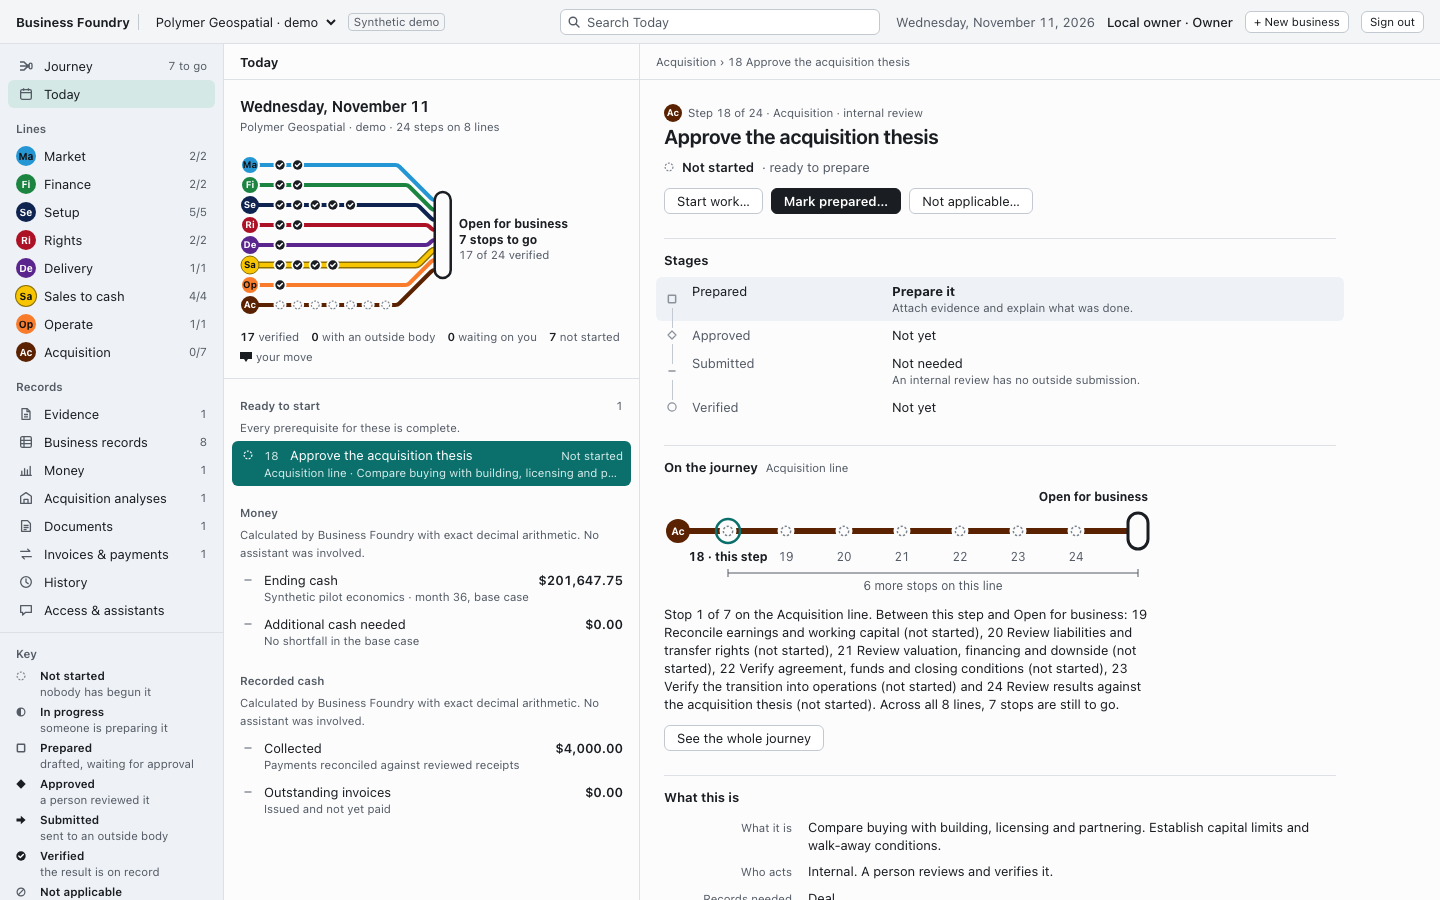
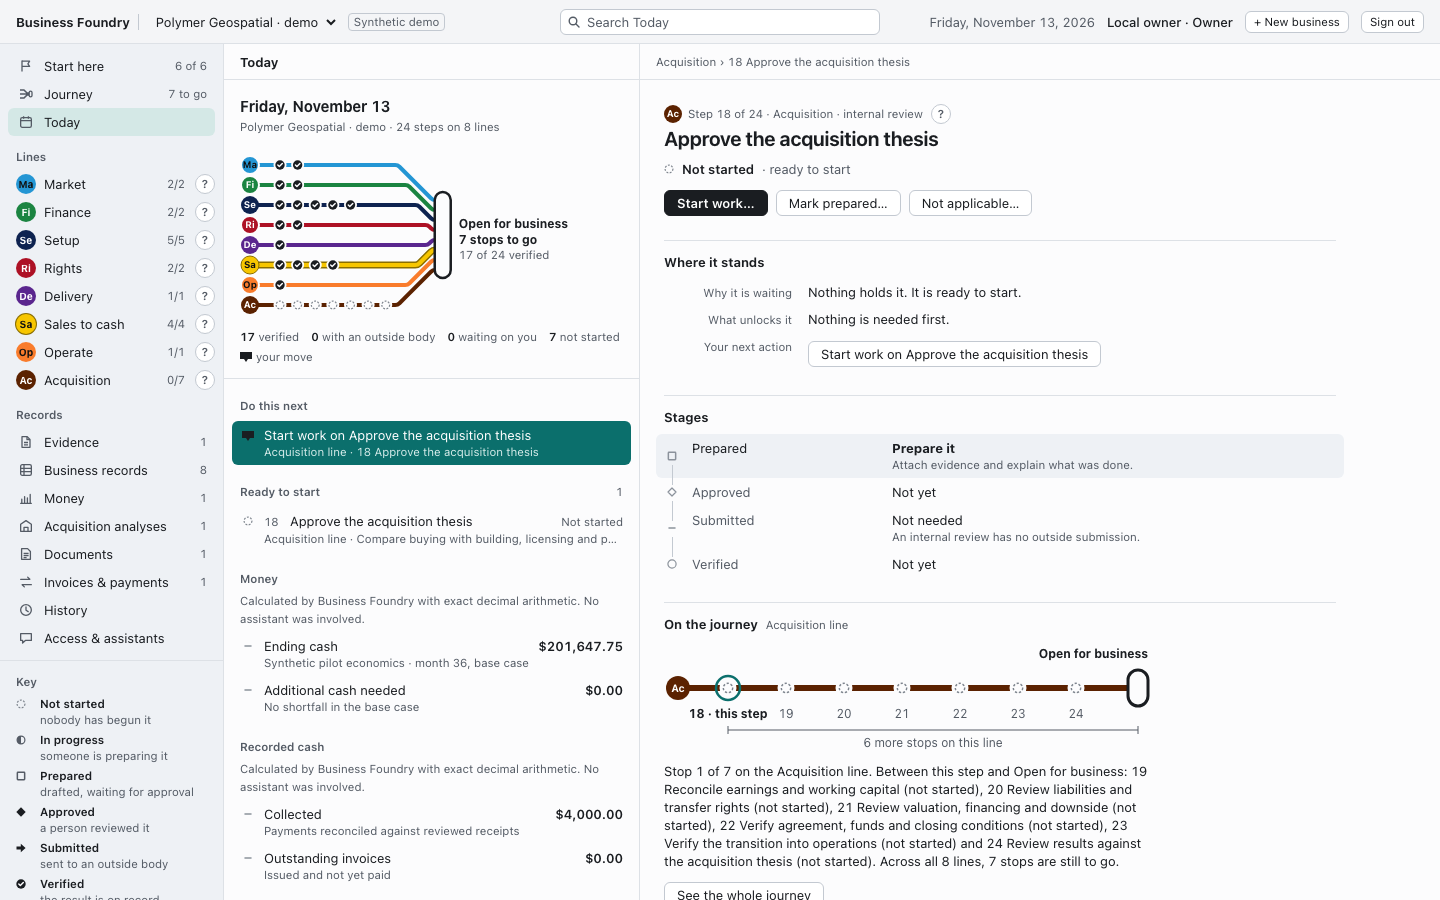
Say a step nobody has started is ready to start, and show Start here in the README image
The state line under a not-started step now matches its main button, Start work. The
README image is regenerated from the synthetic demo by the browser test.

diff --git a/src/foundry/static/app.js b/src/foundry/static/app.js
@@ -430,7 +430,7 @@ function nextText(s) {
   if (t.state === 'pending')
     return t.blockers?.length
       ? `waiting on ${plural(t.blockers.length, 'prerequisite')}`
-      : 'ready to prepare';
+      : 'ready to start';
   if (t.state === 'in_progress') return 'being prepared';
   if (t.state === 'verified')
     return t.data.external ? 'submitted and verified' : 'all stages recorded';

diff --git a/README.md b/README.md
@@ -6,7 +6,7 @@ Turn a concept into a connected business workspace: customers, offers, assets an
 
 **v0.1 is a working local-first alpha.** It prepares and tracks real work with human review. Government filings, bank onboarding, signatures and payments happen with the relevant providers; Foundry records their receipts. It does not certify legal compliance or replace legal, tax, accounting or investment judgment.
 
-![The synthetic Polymer demo workspace: a source list of journey lines and records, Today's list with a strip of the journey map, and a step's inspector](docs/images/workspace.png)
+![The synthetic Polymer demo workspace: a source list with Start here, the journey lines and the records, Today's list with a strip of the journey map and the one next action, and a step's inspector saying where it stands](docs/images/workspace.png)
 
 ## Run it
 
